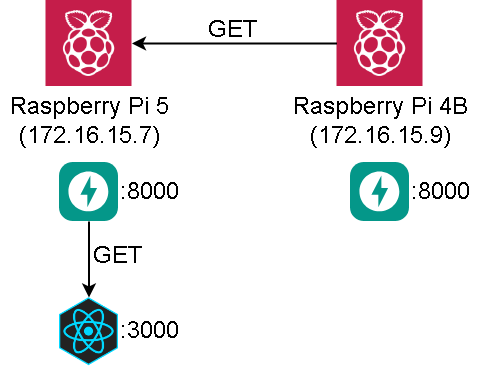
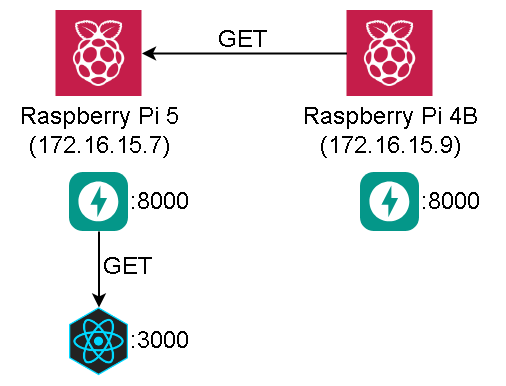
Update 2.0.2 [Add Image]

Changed region(s): [[0.0, 0.0, 0.9877, 1.0]]

diff --git a/README.md b/README.md
@@ -1,0 +1,5 @@
+# 【Raspberry Pi】カードリーダー式在籍確認システム
+
+## システム概要図
+
+![システム概要図](https://github.com/Sclas6/AttendanceDisplaySystem/blob/main/document/%E3%82%B7%E3%82%B9%E3%83%86%E3%83%A0%E6%A6%82%E8%A6%81%E5%9B%B3.png?raw=true)
